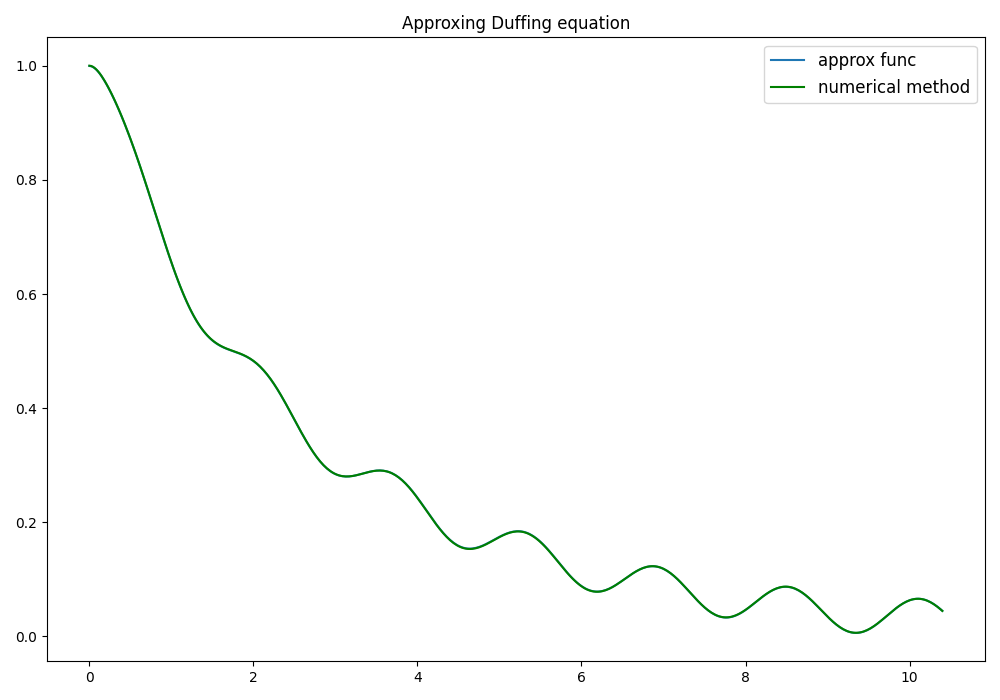
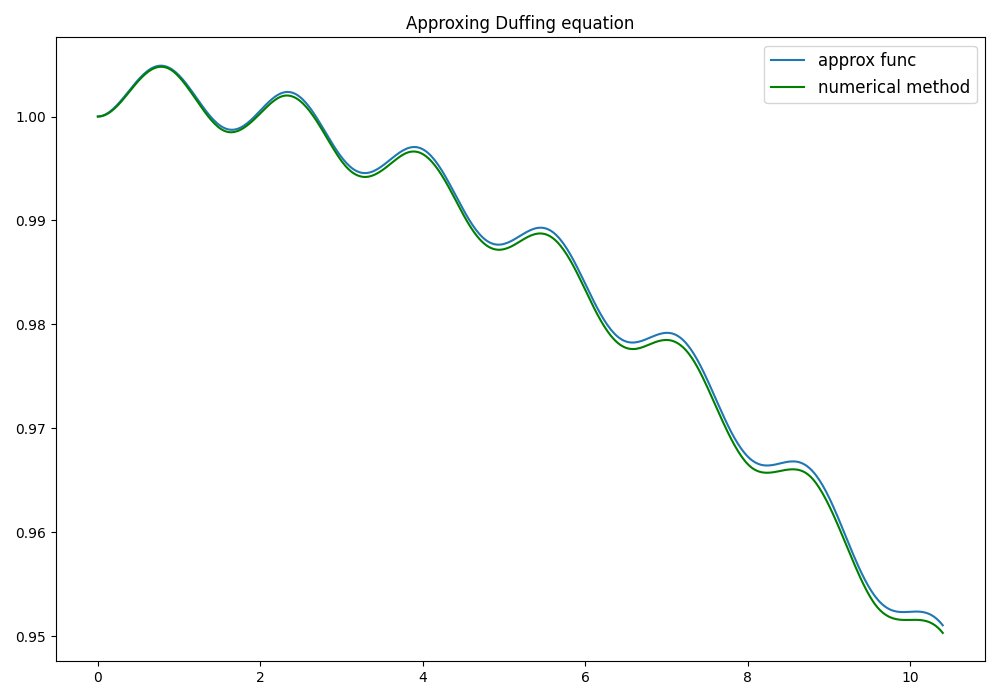
study_update

diff --git a/src/Neural_network(PINN).py b/src/Neural_network(PINN).py
@@ -159,10 +159,10 @@ def draw_history(net, t):
     plt.show()
 
 if __name__ == "__main__":
-    gamma = 1
-    delta = 6.6
-    alpha = 2
-    beta = 1.2
+    gamma = 0.04
+    delta = 0.02
+    alpha = 0.0001
+    beta = 0.001
     par = 1.25
     omega = torch.pi*par
     p = (gamma, delta, alpha, beta, omega)
